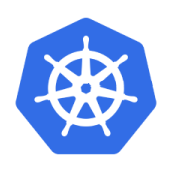
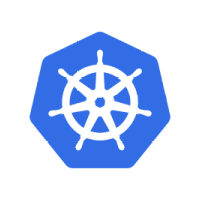
nice  looking website !

Changed region(s): [[0.0877, 0.0877, 0.9357, 0.9064]]

diff --git a/index.html b/index.html
@@ -73,12 +73,12 @@
 								</header>
 								<ul class="features">
 									<li>
-										<span class="icon major style5"><img id="django_logo" class="" src="images/django2.png" alt="" /></span>
+										<span class="icon major style5"><img class="logo-major" src="images/django2.png" alt="" /></span>
 										<h3>Full Stack Development</h3>
 										<p>With Django, my team created, maintianed, and improved web applications for professors to use in their courses and research.</p>
 									</li>
 									<li>
-										<img id="kubernetes_logo" class="icon major style5" src="images/kubernetes.png" alt=""/>
+										<span class="icon major style5"><img class="logo-major" src="images/kubernetes.png" alt=""/></span>
 										<h3>Infrastructure Improvements</h3>
 										<p>Lead the transistion from Dokku hosted apps to Kubernetes hosted apps, and also set up the school's Gitlab server on Kubernetes.</p>
 									</li>
@@ -99,7 +99,7 @@
 							<section id="technologies" class="main special">
 								<header class="major">
 									<h2>My Tech Skills</h2>
-									<p>I'm passionate about learning, making cool things<br />
+									<p>I'm passionate about learning, making cool things,<br />
 									and sharing them with the world!</p>
 								</header>
 								<ul class="statistics">
@@ -135,13 +135,15 @@
 						<!-- Get Started -->
 							<section id="about_me" class="main special">
 								<header class="major">
-									<h2>Congue imperdiet</h2>
-									<p>Donec imperdiet consequat consequat. Suspendisse feugiat congue<br />
-									posuere. Nulla massa urna, fermentum eget quam aliquet.</p>
+									<h2>About Me</h2>
+									<p>I enjoy teaching myself new skills and picking something apart to reverse engineer it.
+										Those skills are how I built this website.  I really do love the satisfaction of creating a product that works well.
+										Outside of coding, I do cross country and track, which means I spend more than an hour each day running.
+										I also love to play chess, both online and in person. I live in Longmont, CO and go to school in Northfield MN.</p>
 								</header>
 								<footer class="major">
 									<ul class="actions special">
-										<li><a href="generic.html" class="button primary">Get Started</a></li>
+										<li><a href="generic.html" class="button primary">Hire Me!</a></li>
 										<li><a href="generic.html" class="button">Learn More</a></li>
 									</ul>
 								</footer>

diff --git a/assets/css/main.css b/assets/css/main.css
@@ -2256,14 +2256,15 @@ input, select, textarea {
 		}
 
 		.icon.major {
-			border: solid 2px;
+			border: solid 10px;
 			display: inline-block;
 			border-radius: 100%;
 			padding: 0.65em;
 			margin: 0 0 2em 0;
 			cursor: default;
+			visibility: hidden;
 		}
-
+		
 			.icon.major:before {
 				display: inline-block;
 				font-size: 6.25rem;
@@ -2271,9 +2272,24 @@ input, select, textarea {
 				height: 2.25em;
 				line-height: 2.2em;
 				border-radius: 100%;
-				border: solid 0px;
+				border: solid 3px;
 				text-align: center;
+				visibility: visible;
+				margin: 0 0 9px 0;
 			}
+		
+			.icon.major img{
+				display: inline-block;
+				font-size: 6.25rem;
+				width: 2.25em;
+				height: auto;
+				border-radius: 100%;
+				border: solid 3px;
+				visibility: visible;
+				text-align: center;
+				line-height: 2.2em;
+				border-color: #dddddd;
+			}	
 
 		.icon.alt {
 			display: inline-block;
@@ -2315,6 +2331,9 @@ input, select, textarea {
 			.icon.major:before {
 				font-size: 5.5rem;
 			}
+			.icon.major img{
+				font-size: 5.5rem;
+			}	
 
 		}
 
@@ -2323,6 +2342,9 @@ input, select, textarea {
 			.icon.major:before {
 				font-size: 4.75rem;
 			}
+			.icon.major img{
+				font-size: 4.75rem;
+			}	
 
 		}
 
@@ -2334,6 +2356,9 @@ input, select, textarea {
 			}
 
 				.icon.major:before {
+					font-size: 3.5rem;
+				}
+				.icon.major img{
 					font-size: 3.5rem;
 				}
 
